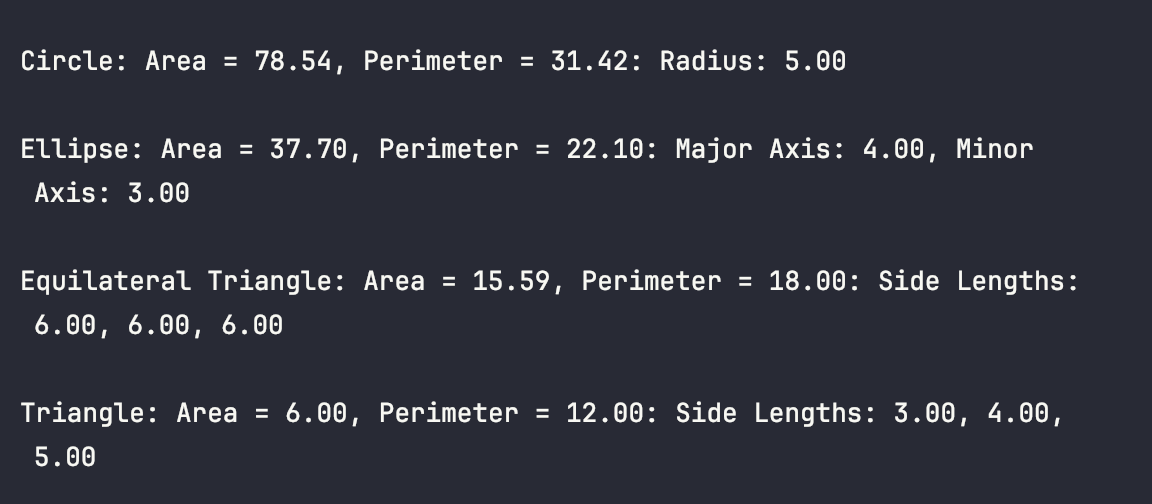
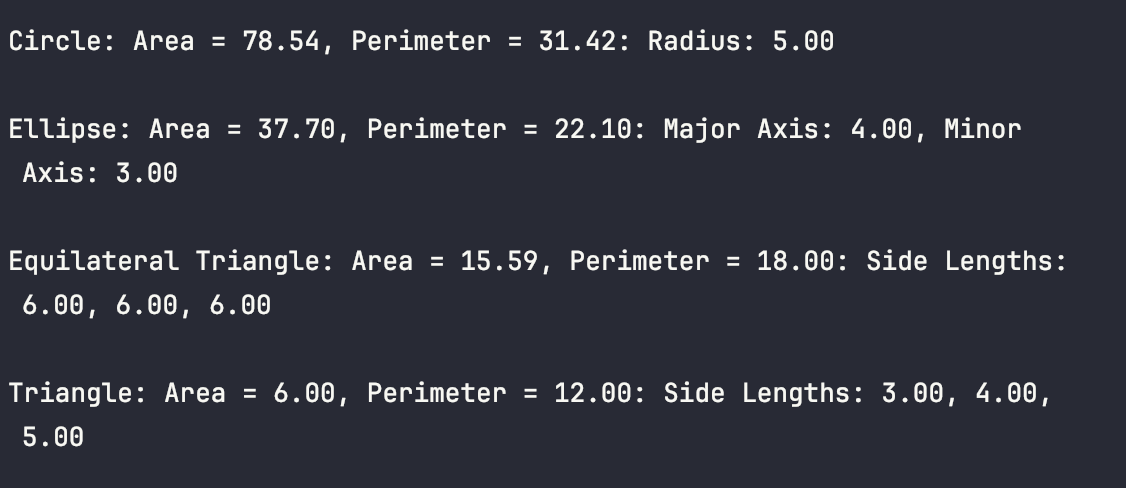
rewrite demo3 and reupload screenshot
rewrote to make sure the array consists of shapes, like the problem calls for

diff --git a/src/demos/Demo3.java b/src/demos/Demo3.java
@@ -4,17 +4,17 @@ import Problem3.*;
 
 public class Demo3 {
     public static void main(String[] args) {
-        String[] shapes = new String[] {
-                new Circle(5).toString(),
-                new Ellipse(3, 4).toString(),
-                new EquilateralTriangle(6).toString(),
-                new Triangle(3, 4, 5).toString()
+        Shape[] shapes = new Shape[] {
+                new Circle(5),
+                new Ellipse(3, 4),
+                new EquilateralTriangle(6),
+                new Triangle(3, 4, 5),
         };
 
         //I could have only used the shape string override, but it looked better for each shape to have it's own override.
-        for (String shapePrint : shapes) {
+        for (Shape shape : shapes) {
             System.out.println();
-            System.out.println(shapePrint);
+            System.out.println(shape.toString());
         }
     }
 }
